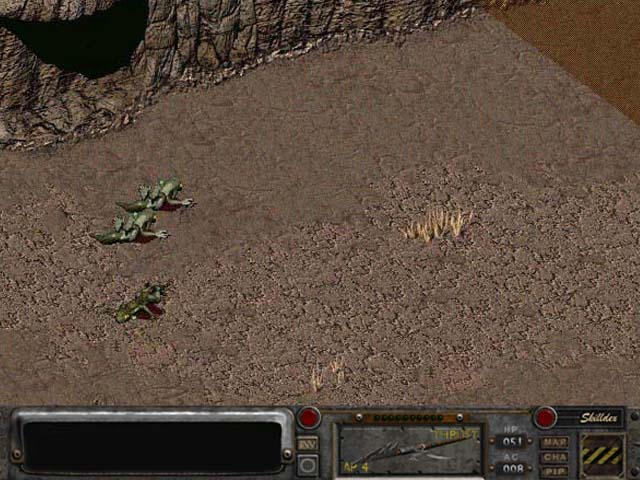
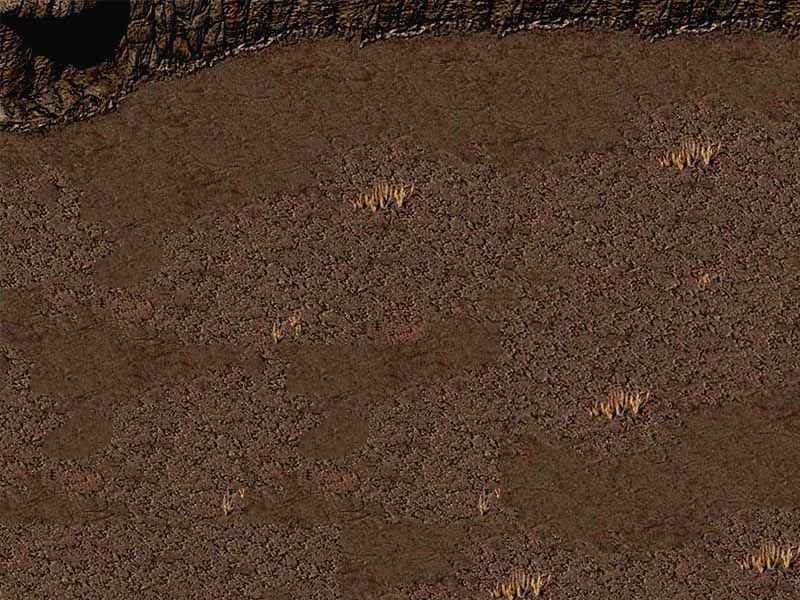
shoot function !

diff --git a/src/component/game/PlayerFrame.js b/src/component/game/PlayerFrame.js
@@ -1,73 +1,73 @@
 import React from 'react';
 import spriteF from '../../pic/game/spriteF.png' ;
 import spriteM from '../../pic/game/spriteM.png';
-var currentDir;
-
 
 
 class PlayerFrame extends React.Component {
     constructor(props) {
       super(props);
       this.state = {
-        action: "IDLE",
+        dir: this.props.dir,
         topSprite : -420,
         leftStripe: 0,
         spriteImg: '',
-
+        isIdle: this.props.isIdle
       };
-      this.delay = 100;
-      this.dir = { "E":  0,  "W": -70,  "N":  -140, "NE":  -140, "S": -210, "SE": -210,  "SW" : -280, "NW": -350,  "IDLE-E" : -420, "Shoot": -490  };
-      
+      this.delay = 200;
+      this.dir = { "E":  0,  "W": -70,  "N":  -140, "NE":  -140, "S": -210, "SE": -210,  "SW" : -280, "NW": -350,  "none" : -420, "Shoot": -490  };
+      this.ongoingAnimation = false;
     }
     
 
 
 componentWillReceiveProps(nextProps){
-      if( this.state.isIdle === true){
-          this.setState( {leftStripe: 0 })
+      if( nextProps.isIdle === true){
+          this.setState( {
+              leftStripe: 0, 
+              isIdle: nextProps.isIdle
+              });
+          this.ongoingAnimation = false; 
           }
-                      
-      if( this.state.action !== nextProps.action ){                   
+      else{                              
           this.setState({
-              action: nextProps.action,
-              topSprite : this.dir[nextProps.action],
-
+              topSprite: this.dir[nextProps.dir],
+              isIdle:    nextProps.isIdle,
+              dir:       nextProps.dir
               },  () => {
-                      this.animate(); 
+                      if( !this.ongoingAnimation ){this.animate() } 
                         })
-          }
-      
+      }
   }
 
 
-animate(){
-    
-      var newLeft = (this.state.leftStripe <= -540) ? 0 : (this.state.leftStripe - 60);  
-      this.setState( { 
-          leftStripe: newLeft }, () => {
-              console.log('Animate: ' + this.state.action + '  ' + this.state.topStripe + '  '  + this.state.leftStripe);   
-              setTimeout( () => {
-                                this.animate()
+animate(){    
+      if(!this.state.isIdle){
+          console.log('Animate ' + this.state.dir )
+          this.ongoingAnimation = true; 
+          var newLeft = (this.state.leftStripe <= -540) ? 0 : (this.state.leftStripe - 60);  
+          this.setState( { 
+              leftStripe: newLeft }, () => {
+                    setTimeout( () => {
+                          this.animate()
                                 }, this.delay  );             
-                    });
-      
-                
+          }); 
+      }         
 }
 
     render() {
       var  spriteImg=  ( ( (this.props.playerId).substr(0,1) === "M" )? spriteM : spriteF) ;
       return (
-        <div className = "playerFrame">
-          <img 
-              src = {spriteImg} 
-              alt = "player Sprite" 
-              id  = "imgSprite" 
-              style = {{
-                  top: this.state.topSprite,
-                  left: this.state.leftStripe
-                   }}
-          />
-        </div>
+          <div className = "playerFrame">
+              <img 
+                  src = {spriteImg} 
+                  alt = "player Sprite" 
+                  id  = "imgSprite" 
+                  style = {{
+                      top: this.state.topSprite,
+                      left: this.state.leftStripe
+                      }}
+                  />
+          </div>
       );
     }
   }

diff --git a/src/component/Playground.js b/src/component/Playground.js
@@ -5,7 +5,7 @@ import Blocks from './game/Blocks.js';
 import NPC from './game/NPC.js';
 import Shot from './game/Shot.js';
 import Nuke from './game/Nuke.js';
-
+import bg from '../pic/game/bg1.jpg';
 
 class Playground extends React.Component {
     constructor(props) {
@@ -14,7 +14,7 @@ class Playground extends React.Component {
                        pathX:   60 ,
                        pathY:   -50 ,
                        playerX:  60,
-                       playerY:  100,
+                       playerY:  200,
                        playerDir: 'IDLE',
                        isIdle: true,
                        showBlocks: false,
@@ -53,7 +53,7 @@ class Playground extends React.Component {
         else if( diffX < 0   && diffY > 0   ){ this.move("SW", -1,  1)  }
         else if( diffX < 0   && diffY < 0   ){ this.move("NW", -1, -1)  }
         else if( diffX === 0 && diffY === 0 ){ 
-            this.setState({isIdle: true, playerDir: "IDLE"}, ()=> {console.log('isIdle: ' + this.state.isIdle  )});
+            this.setState({ isIdle: true }, ()=> {console.log('isIdle: ' + this.state.isIdle  )});
    
         }
   }
@@ -71,12 +71,12 @@ move(dir, x, y){
 }
 
 shoot(){
-  let newArray = this.state.shot;
-  let newShoot = [ this.state.playerX +30, this.state.playerY -40 , "shot"+this.shotCount ];
-  newArray[this.shotCount] = newShoot;
-  this.setState({ shot:  newArray, playerDir: "shoot"  }, ()=>{ setTimeout(   this.setState({ isIdle: true }) , 1000 )    }) 
-  this.animateShoot(this.shotCount);
-  this.shotCount++;
+    let newArray = this.state.shot;
+    let newShoot = [ this.state.playerX +30, this.state.playerY -40 , "shot"+this.shotCount ];
+    newArray[this.shotCount] = newShoot;
+    this.setState({ shot:  newArray, playerDir: "shoot"  }, ()=>{ setTimeout(   this.setState({ isIdle: true }) , 1000 )    }) 
+    this.animateShoot(this.shotCount);
+    this.shotCount++;
 }
 
 // Argument 'e' is defined by 'shotCount', it is the index of the 'shot' in this.state.shot
@@ -185,9 +185,11 @@ componentDidMount() {
     render() {
 
       return (
-        <div className = "playground" onClick = {this.handleClick} >
-          Left 
+        <div className = "playground" onClick = {this.handleClick} style={{ backgroundImage: "url(" + bg + ")" }}>
+           
           Click to move, 'Space' to shoot  -  {this.props.session}
+          
+          
           <Path 
                 pathX = {this.state.pathX} 
                 pathY = {this.state.pathY}
@@ -196,7 +198,7 @@ componentDidMount() {
           <PlayerPos
                 playerX  = { this.state.playerX }
                 playerY  = { this.state.playerY }
-                action   = { this.state.playerDir }
+                dir   = { this.state.playerDir }
                 playerId = { this.props.sessionId }
                 isIdle   = { this.state.isIdle }
              />
@@ -205,7 +207,7 @@ componentDidMount() {
           <NPC    npcPosition  = { this.state.enemies } />
           <Shot   shotPosition = { this.state.shot} />
           {this.state.cheatMode? <Nuke />:""}
-         
+          
         </div>
       );
     }

diff --git a/src/component/game/PlayerPos.js b/src/component/game/PlayerPos.js
@@ -1,20 +1,13 @@
 import React from 'react';
 import PlayerFrame from './PlayerFrame.js';
 
-
-// Same component as PlayerPos.js but transfered the position info and methods to upper level
-// These are passed to parent "Playground"component playground as these are needed for pathfinding....
-
-
-
 export default class PlayerPos extends React.Component{
 
     constructor(props){
       super(props);
       this.state = {
         playerX: this.props.playerX,
-        playerY: this.props.playerY,};
-
+        playerY: this.props.playerY}
     }
 
     componentWillReceiveProps(nextProps){
@@ -22,12 +15,7 @@ export default class PlayerPos extends React.Component{
       this.setState({
           playerX: nextProps.playerX,
           playerY: nextProps.playerY
-          },
-          () => {
-              //this.forceUpdate(); 
-              //console.log("Update: " + nextProps.playerX + " " + nextProps.playerY +" (player)")
-          }
-      )  
+          })  
   }
 
   handleClick(e){
@@ -41,7 +29,7 @@ export default class PlayerPos extends React.Component{
       return (
         <div className = "playerPos" style = {{left : this.state.playerX, top : this.state.playerY }} >
           <PlayerFrame 
-              action   = { this.props.action }
+              dir   = { this.props.dir }
               playerId = { this.props.playerId }
               isIdle   = { this.props.isIdle }
            />
